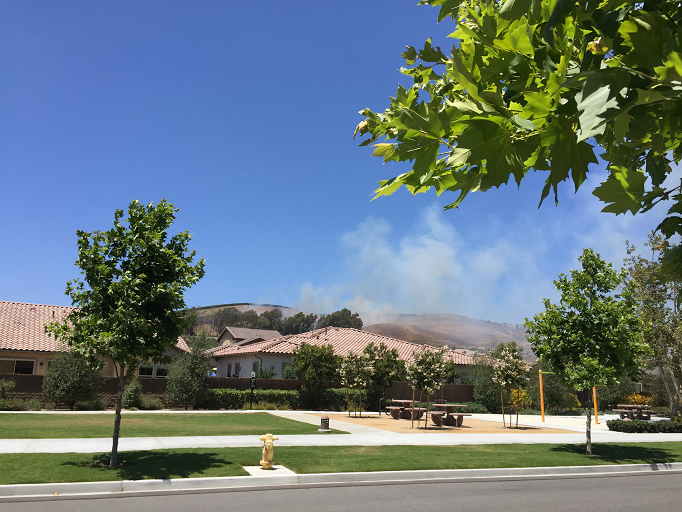
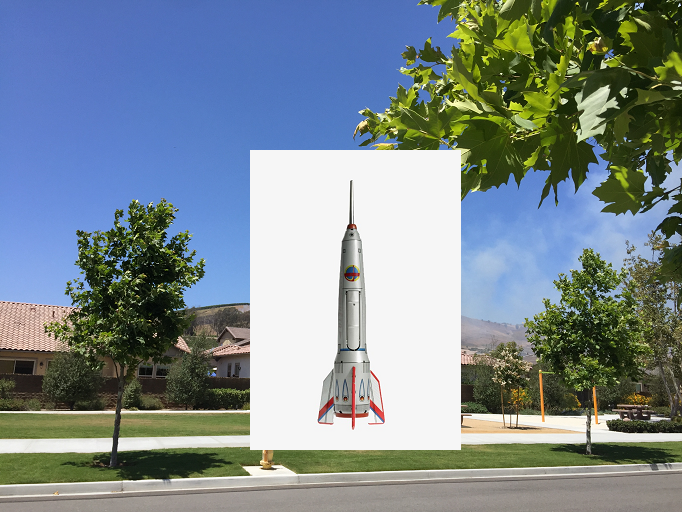
naive paste works

Changed region(s): [[0.3695, 0.2812, 0.6774, 0.9062]]

diff --git a/Main.cpp b/Main.cpp
@@ -1,5 +1,7 @@
 #define _CRT_SECURE_NO_WARNINGS
 #include <stdio.h>
+#include <algorithm>
+#include <vector>
 
 #define STB_IMAGE_IMPLEMENTATION
 #include "stb/stb_image.h"
@@ -29,6 +31,11 @@ struct SImageInfo
     }
 };
 
+struct SRect
+{
+    int x1, y1, x2, y2;
+};
+
 bool WriteImage (const char *fileName, int width, int height, stbi_uc* pixels)
 {
     return stbi_write_png(fileName, width, height, 3, pixels, 3 * width) != 0;
@@ -36,10 +43,57 @@ bool WriteImage (const char *fileName, int width, int height, stbi_uc* pixels)
 
 void NaivePaste (const SImageInfo &source, const SImageInfo &dest, int pasteX, int pasteY, const char* fileName)
 {
-    // TODO: implement this and the others.
+    // copy the destination image to an out image buffer
+    std::vector<stbi_uc> outPixels;
+    outPixels.resize(dest.m_width*dest.m_height * 3);
+    memcpy(&outPixels[0], dest.m_pixels, outPixels.size());
 
-    if (!WriteImage(fileName, source.m_width, source.m_height, source.m_pixels))
-        printf("Could not write %s\n", fileName);
+    // calculate details of paste, handling negative paste locations and images larger than the destination etc.
+    SRect sourceRect = { 0, 0, source.m_width, source.m_height };
+    SRect destRect = { pasteX, pasteY, pasteX + source.m_width, pasteY + source.m_height };
+
+    if (destRect.x1 < 0)
+    {
+        sourceRect.x1 -= destRect.x1;
+        destRect.x1 = 0;
+    }
+
+    if (destRect.y1 < 0)
+    {
+        sourceRect.y1 -= destRect.y1;
+        destRect.y1 = 0;
+    }
+
+    if (destRect.x2 >= dest.m_width)
+    {
+        int difference = (destRect.x2 - dest.m_width) + 1;
+        sourceRect.x2 -= difference;
+        destRect.x2 = dest.m_width - 1;
+    }
+
+    if (destRect.y2 >= dest.m_height)
+    {
+        int difference = (destRect.y2 - dest.m_height) + 1;
+        sourceRect.y2 -= difference;
+        destRect.y2 = dest.m_height - 1;
+    }
+
+    // naively paste the image
+    int copyWidth = sourceRect.x2 - sourceRect.x1;
+    int copyHeight = sourceRect.y2 - sourceRect.y1;
+    if (copyWidth > 0 && copyHeight > 0)
+    {
+        for (int y = 0; y < copyHeight; ++y)
+        {
+            stbi_uc* sourcePixels = &source.m_pixels[((sourceRect.y1 + y)*source.m_width + sourceRect.x1) * 3];
+            stbi_uc* destPixels = &outPixels[((destRect.y1 + y)*dest.m_width + destRect.x1) * 3];
+            memcpy(destPixels, sourcePixels, copyWidth * 3);
+        }
+    }
+
+    // write the file
+    if (!WriteImage(fileName, dest.m_width, dest.m_height, &outPixels[0]))
+        printf(__FUNCTION__ "() error: Could not write %s\n", fileName);
 }
 
 int main(int argc, char** argv)
@@ -55,7 +109,7 @@ int main(int argc, char** argv)
             return 1;
         }
 
-        if (!source.Load(argv[1]) || !source.Load(argv[2]))
+        if (!source.Load(argv[1]) || !dest.Load(argv[2]))
         {
             return 2;
         }
@@ -97,5 +151,7 @@ BLOG:
 - show resulting image, and also the one w/o least squares, and a naive paste too
 
 ? i wonder if this could help at all with style transfer? it would for color changes but not for feature changes.
+
+* paste the rocket at  250, 150
 
 */
